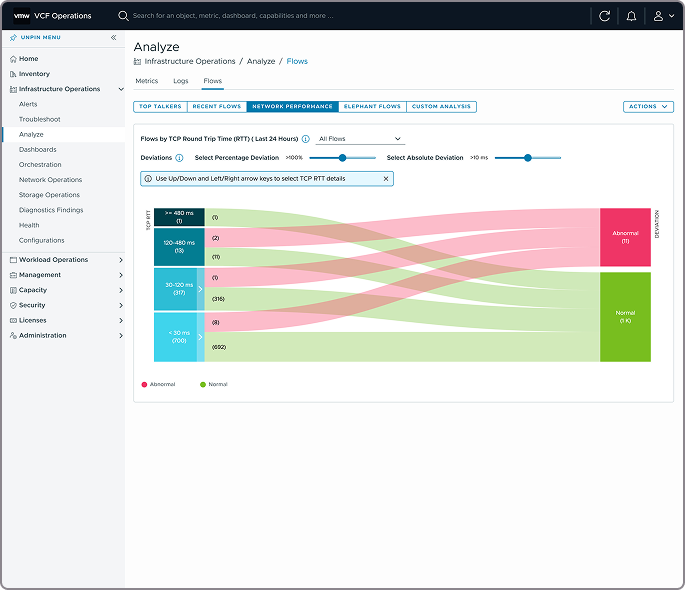
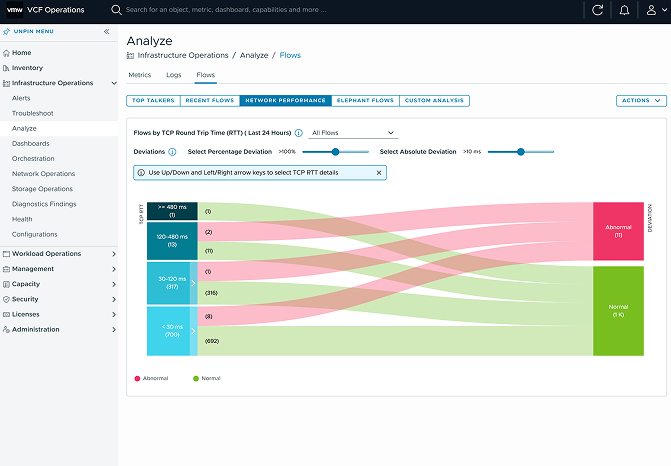
Crop the two Clarity captures 20% off the bottom
Both had a band of empty canvas below the content. They are now cropped
in the files rather than in CSS: 20% off the bottom, plus the 1% off the
sides and top they were already getting, giving 685x590 -> 671x466.

Cropping the files rather than layering more CSS keeps the page and the
expanded view in step for free. The previous approach clipped with
overflow and scale, which the modal had to be taught to mirror; a second
rule for a bottom-only crop would have meant teaching it again, and the
two could drift. The CSS crop and the `cropped` flag are dropped for
these two accordingly, so nothing is cropped twice.

The uncropped originals remain in this repo's history and in the Drive
folder they came from.

Verified against the production build with the gate unlocked: both
images intrinsically 671x466, neither carrying a transform, still side
by side at 601.6px per column, and the expanded view now opens at
671x466 with no transform of its own. No broken images.

diff --git a/src/pages/VcfNetworkPage.tsx b/src/pages/VcfNetworkPage.tsx
@@ -573,9 +573,12 @@ export function VcfNetworkPage() {
                     </ul>
                   </div>
 
-                  {/* Converted patterns in place. Cropped 1% like the other
-                      screen captures on this page, and clickable to open full
-                      size — at half a column the interface type is small. */}
+                  {/* Converted patterns in place. These two are cropped in the
+                      files themselves — 1% off the sides and top, 20% off the
+                      bottom, where the capture had a band of empty canvas — so
+                      the page and the expanded view agree without any CSS to
+                      keep in step. Clickable, since interface type is small at
+                      half a column. */}
                   <div className="grid grid-cols-1 md:grid-cols-2 gap-8">
                     {[
                       {
@@ -591,13 +594,11 @@ export function VcfNetworkPage() {
                     ].map((shot) => (
                       <figure
                         key={shot.src}
-                        className="overflow-hidden cursor-pointer hover:opacity-90 transition-opacity"
-                        style={{ borderRadius: '10px' }}
+                        className="cursor-pointer hover:opacity-90 transition-opacity"
                         onClick={() =>
                           setExpandedImage({
                             src: shot.src,
                             alt: shot.expandedAlt,
-                            cropped: true,
                           })
                         }
                       >
@@ -605,7 +606,7 @@ export function VcfNetworkPage() {
                           src={shot.src}
                           alt={shot.alt}
                           className="w-full h-auto block"
-                          style={{ transform: 'scale(1.0204)' }}
+                          style={{ borderRadius: '10px' }}
                         />
                       </figure>
                     ))}
